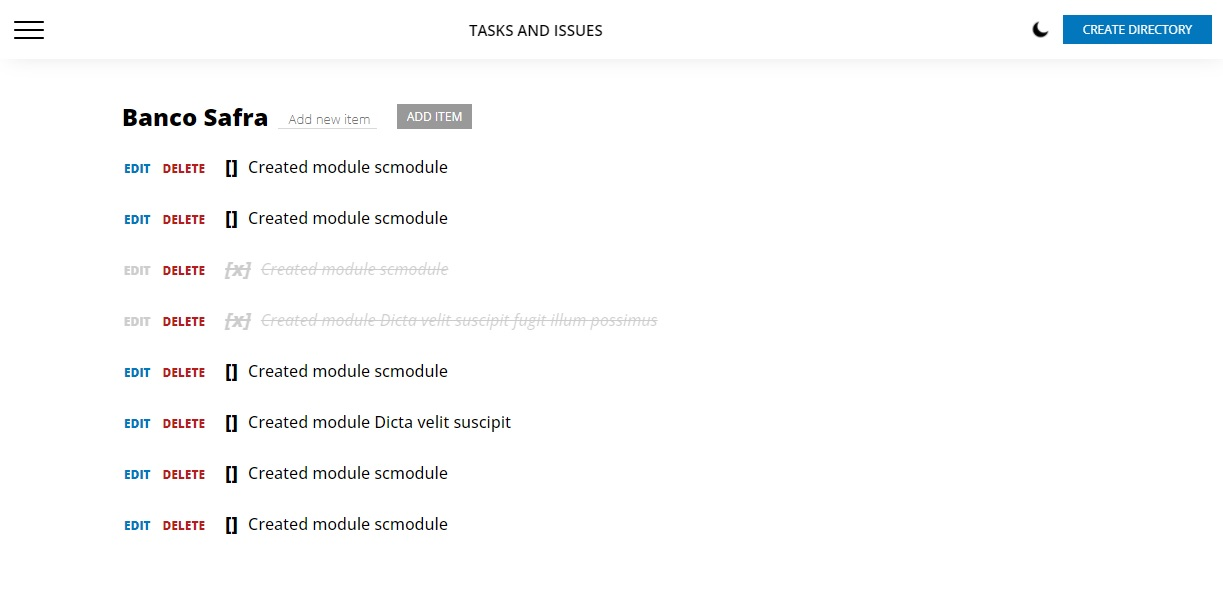
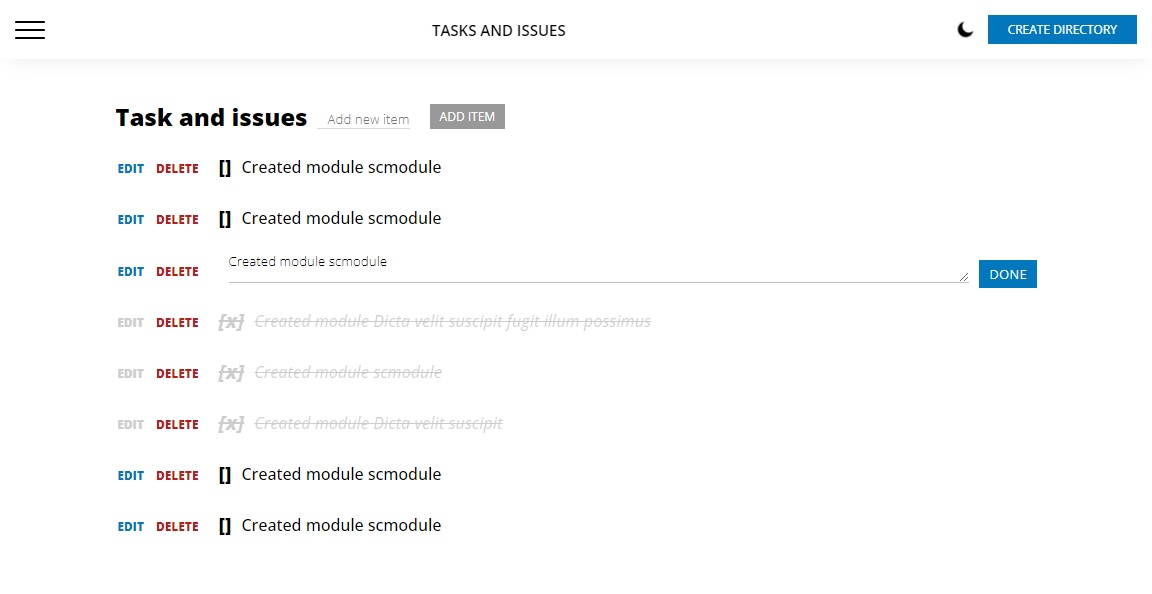
I updeted readme

diff --git a/src/app/components/task-list/task-list.component.ts b/src/app/components/task-list/task-list.component.ts
@@ -24,49 +24,49 @@ export class TaskListComponent implements OnInit {
     {
       label: 'Created module scmodule',
       done: false,
-      folderName: 'Banco Safra',
+      folderName: 'Task and issues',
       editing: false
     },
     {
       label: 'Created module scmodule',
       done: false,
-      folderName: 'Banco Safra',
+      folderName: 'Task and issues',
       editing: false
     },
     {
       label: 'Created module scmodule',
       done: false,
-      folderName: 'Banco Safra',
+      folderName: 'Task and issues',
       editing: false
     },
     {
       label: 'Created module Dicta velit suscipit fugit illum possimus',
       done: false,
-      folderName: 'Banco Safra',
+      folderName: 'Task and issues',
       editing: false
     },
     {
       label: 'Created module scmodule',
       done: false,
-      folderName: 'Banco Safra',
+      folderName: 'Task and issues',
       editing: false
     },
     {
       label: 'Created module Dicta velit suscipit',
       done: false,
-      folderName: 'Banco Safra',
+      folderName: 'Task and issues',
       editing: false
     },
     {
       label: 'Created module scmodule',
       done: false,
-      folderName: 'Banco Safra',
+      folderName: 'Task and issues',
       editing: false
     },
     {
       label: 'Created module scmodule',
       done: false,
-      folderName: 'Banco Safra',
+      folderName: 'Task and issues',
       editing: false
     },
   ]

diff --git a/src/app/components/task-list/task-list.component.html b/src/app/components/task-list/task-list.component.html
@@ -1,7 +1,7 @@
 <div class="container">
   <div class="wraper">
     <div class="title">
-      <h2>Banco Safra</h2>
+      <h2>Task and issues</h2>
       <input [(ngModel)]="newTaskItem"  [style.width]="renderWidthNewTaskItem() + '%'" placeholder="Add new item">
       <button [disabled]="!newTaskItem.length || newTaskItem.length < 5" class="bg-green-primary">ADD ITEM</button>
     </div>

diff --git a/src/app/components/menu/menu.component.ts b/src/app/components/menu/menu.component.ts
@@ -25,7 +25,7 @@ export class MenuComponent implements OnInit {
 
   tasks: Task[] = [
     {
-      title: 'Banco Safra',
+      title: 'Task and issues',
       isseus: ['Created module scmodule', 'Created module', 'Created module scmodule'],
       open: false
     },{
